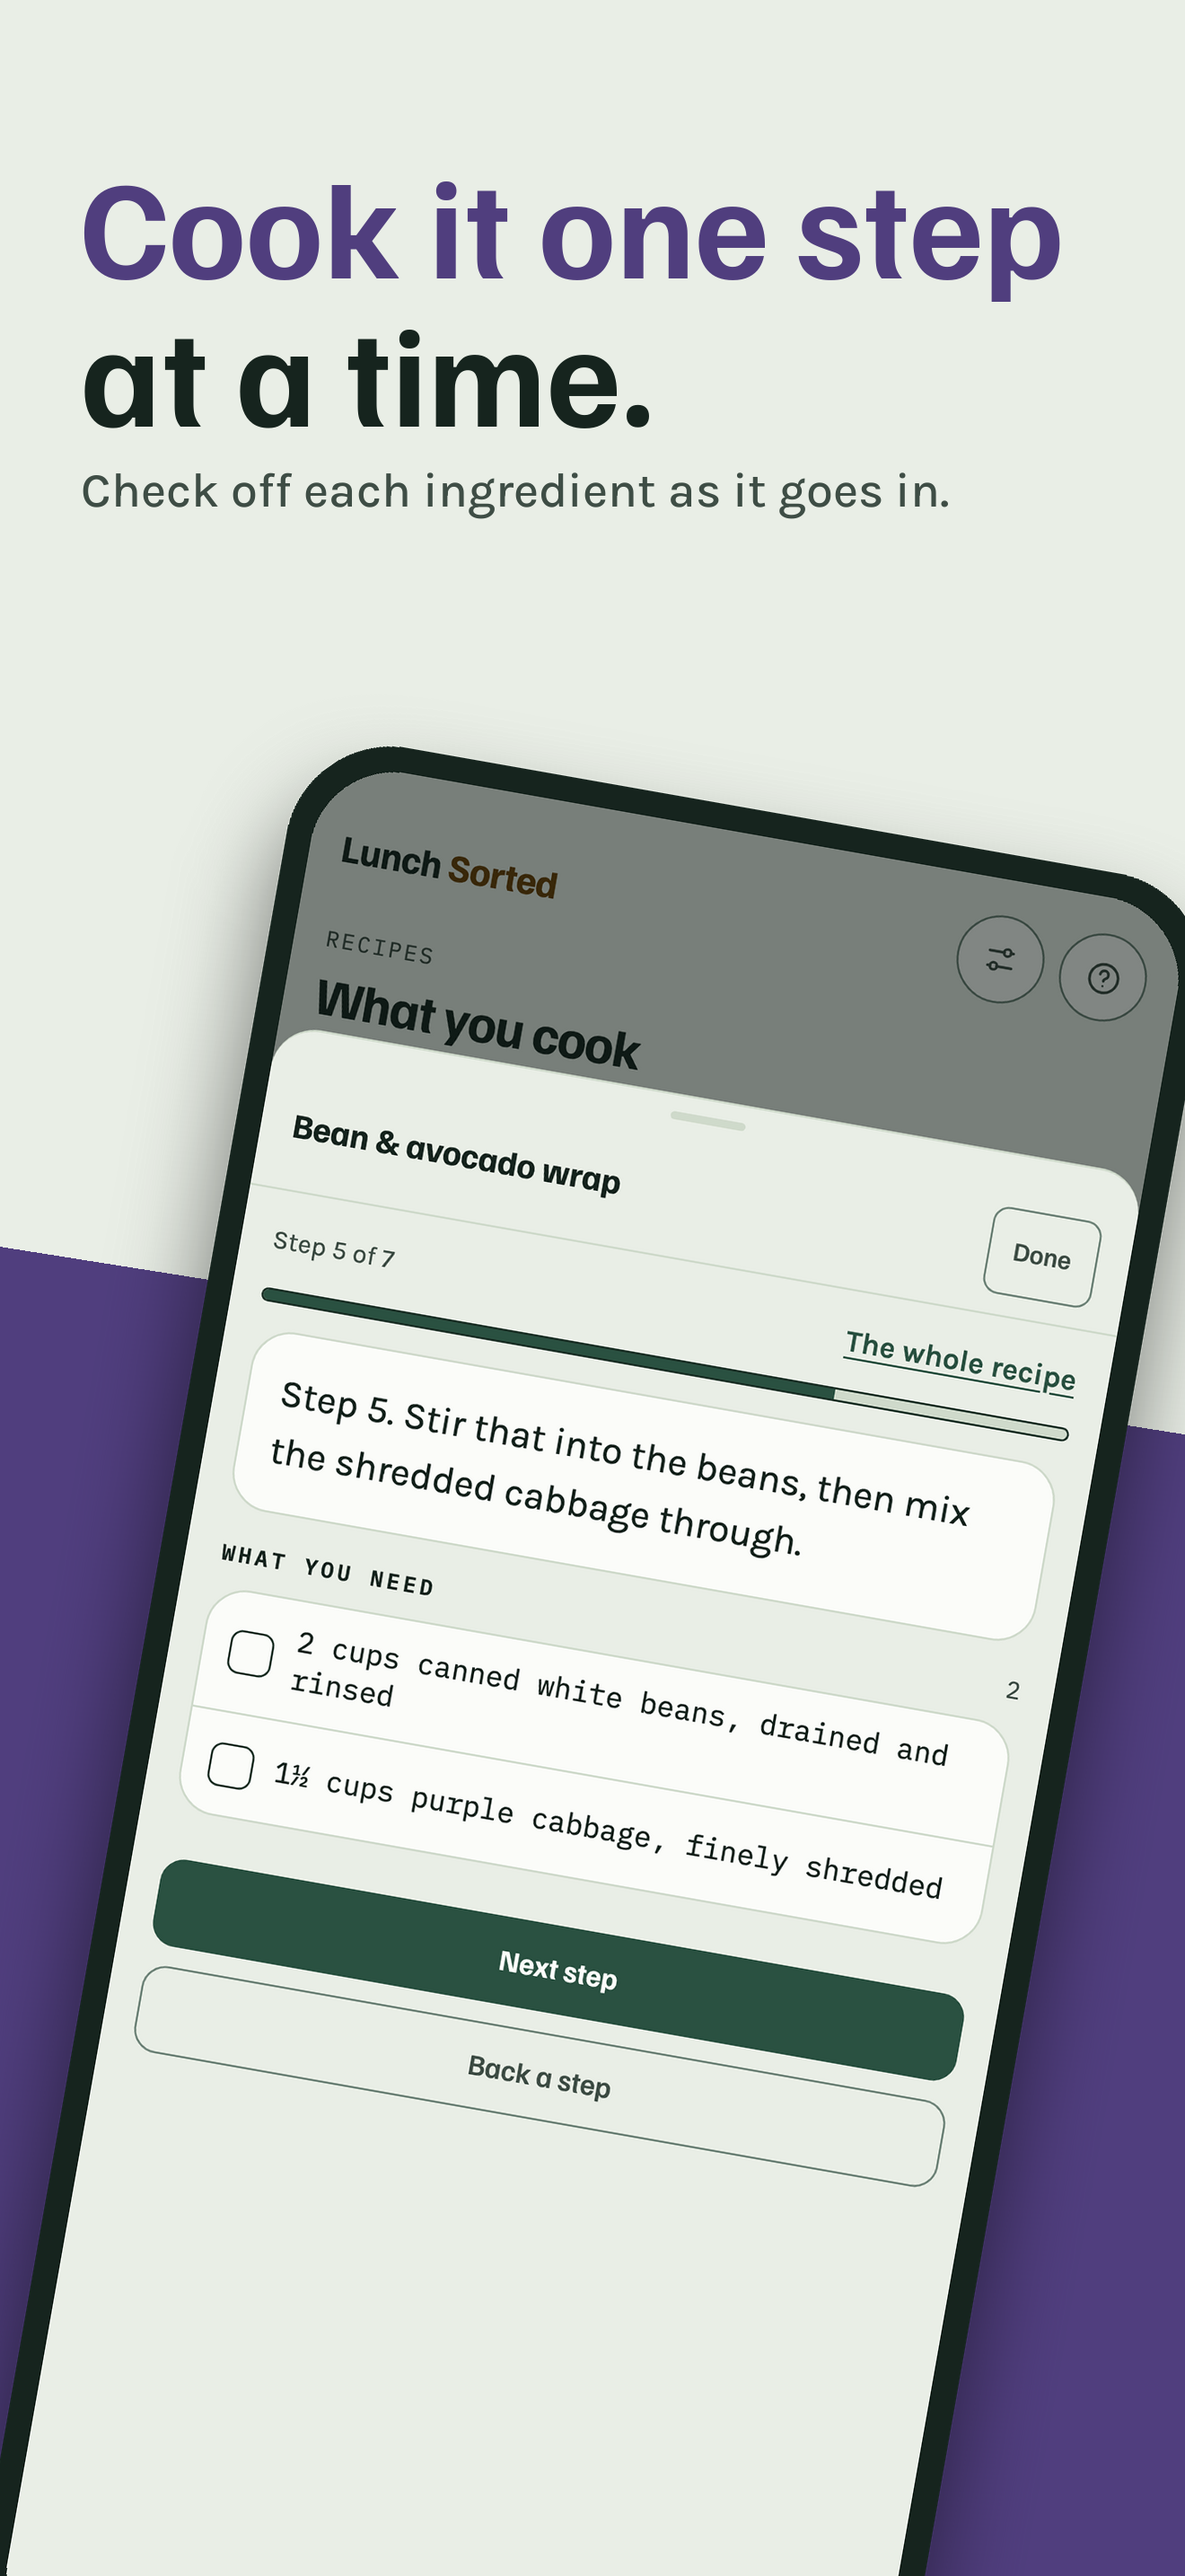
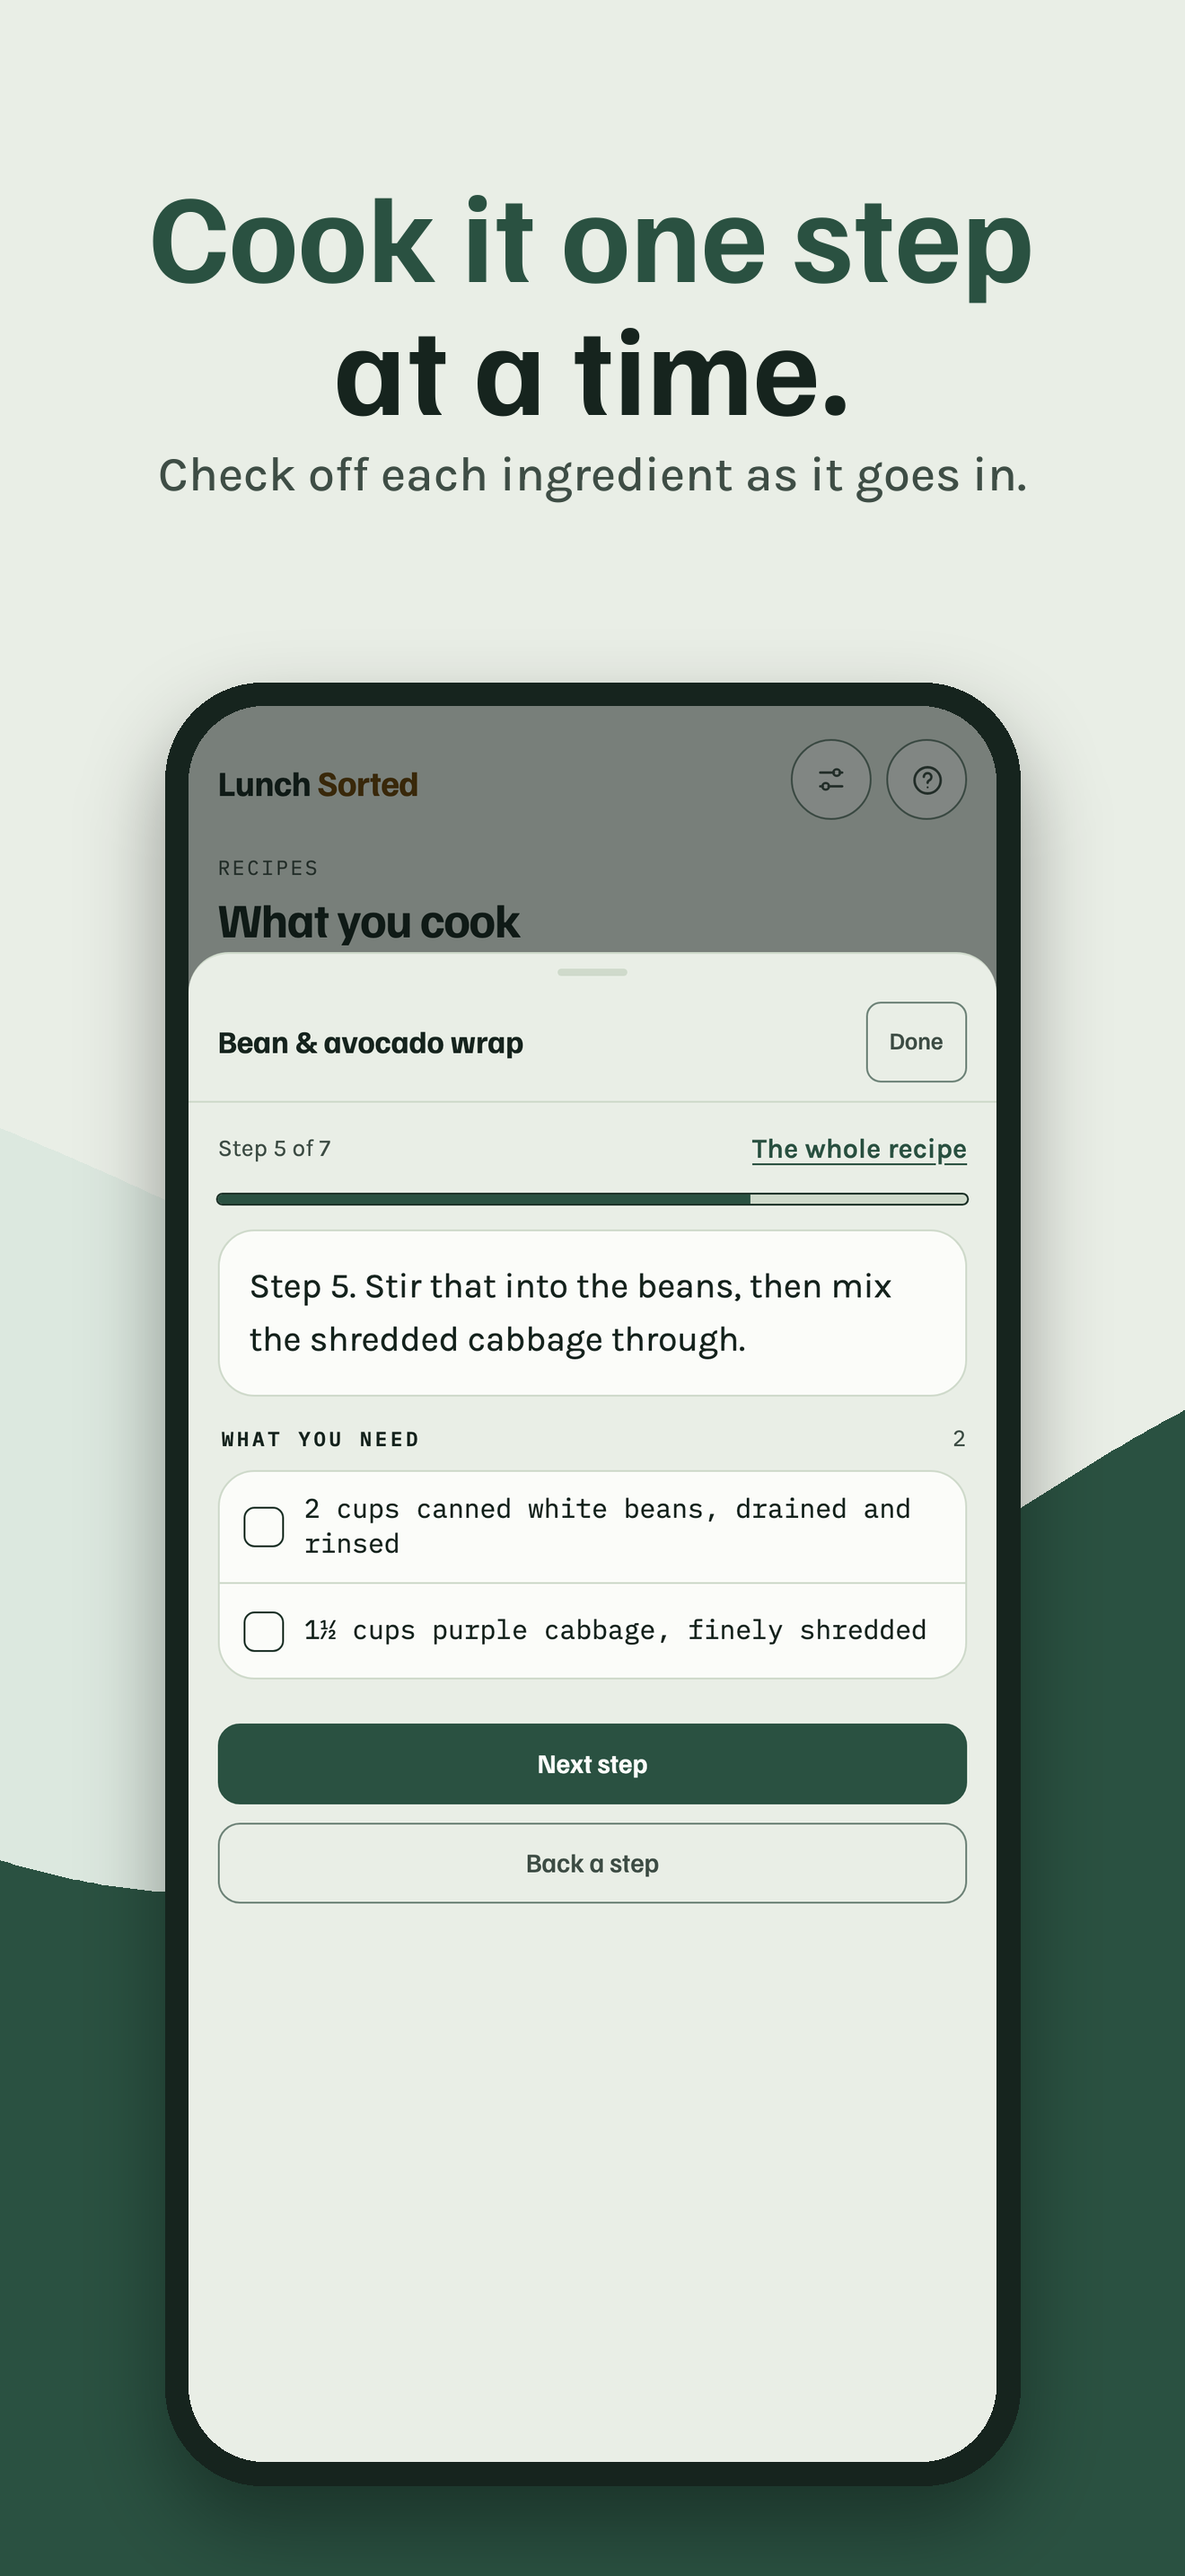
Store: the screenshots calm again, one organic wave running behind the whole set
Upright phones, centered two-color headline, the ground color page. Behind the
phones two waves, the soft accent and the green, drawn once across a canvas
eight frames wide and cut per frame, so every frame carries a different slice
of the same shape. The tilted collage is gone.

diff --git a/scripts/store-compose.py b/scripts/store-compose.py
@@ -1,27 +1,24 @@
 """Composes the App Store screenshots at 1320x2868 (the 6.9-inch slot; App Store Connect
-scales it for smaller phones): each raw capture from store-shots.mjs in a phone with a heavy
-bezel, at a real angle and large enough that the screen reads, running off the frame, on the
-app's ground color with a slab of one of the icon's four compartment colors behind. The first
-three are one scene three frames wide, cut in three, because search results show them side by
-side: the phones cross the cuts and overlap, the way one picture does. Fonts are the app's own,
-checked in under store/ (Familjen Grotesk and Karla, SIL Open Font License). Run by
-scripts/store-shots.mjs."""
+scales it for smaller phones): each raw capture from store-shots.mjs in an upright phone with a
+heavy bezel, centered under a centered two-line headline, on the app's ground color. Behind the
+phones one organic band in the brand's green runs across the whole set, drawn once on a canvas
+eight frames wide and cut per frame, so every frame carries a different slice of the same shape
+and the set reads as one. Fonts are the app's own, checked in under store/ (Familjen Grotesk
+and Karla, SIL Open Font License). Run by scripts/store-shots.mjs."""
 from PIL import Image, ImageDraw, ImageFont, ImageFilter
-import os
+import os, math
 
 OUT = 'store/screenshots'
 W, H = 1320, 2868
 GROUND = (0xE9, 0xEE, 0xE6)          # the page color, the canvas
 INK = (0x16, 0x24, 0x1E)             # the headline's second line and the bezel
 INK2 = (0x3E, 0x4D, 0x45)            # the line under the headline
-# The icon's four compartment colors (HANDBOOK.md, The brand): main, side, fruit, sweet.
-BACKS = [(0x2A, 0x51, 0x41), (0x6A, 0x40, 0x07), (0x84, 0x27, 0x3E), (0x50, 0x3E, 0x7E)]
-BAND = 3            # the first three run as one scene
+MAIN = (0x2A, 0x51, 0x41)            # the band, and the headline's first line
+SOFT = (0xDC, 0xE8, 0xDF)            # accent, soft: a second, paler wave behind the band
 HEAD_FONT = 'store/FamiljenGrotesk-Bold.ttf'
 SUB = ImageFont.truetype('store/Karla-Medium.ttf', 54)
 
-# (raw capture, output name, headline, one line under it). The headline is two lines at most;
-# its first line takes the frame's color, the second the ink.
+# (raw capture, output name, headline, one line under it). Two lines at most.
 SHOTS = [
     ('week',    '01-week',    'A week of lunches\nin a minute.',    'Five boxes, matched so they go together.'),
     ('pack',    '02-pack',    'Mornings:\none box, one check.',     'Today’s box, and the week coming up.'),
@@ -32,11 +29,12 @@ SHOTS = [
     ('setup',   '07-rules',   'Your school’s rules,\nrespected.',   'Nut free, no microwave, a short lunch. Flagged, never dropped.'),
     ('foods',   '08-foods',   'Foods they’ll\nactually eat.',       'Start from what parents pack.'),
 ]
-CROP_TOP = {'kidpick': 320}   # raw pixels off the top: the pick starts at its question, the phone runs off the bottom anyway
+CROP_TOP = {}                 # (raw: pixels off the top); none, so every phone is the same height
 
-BEZEL = 28
-MARGIN = 90
-PAD = 200                     # room around a phone for its shadow's blur
+SCREEN_W = 900
+BEZEL = 26
+PAD = 160                     # room around the phone for its shadow's blur
+PHONE_TOP = 760
 
 def wrap(draw, text, font, width):
     lines = []
@@ -50,84 +48,60 @@ def wrap(draw, text, font, width):
     return lines
 
 def headline(draw, text, width):
-    """The biggest size at which the headline is two lines or fewer."""
-    for size in range(156, 100, -4):
+    for size in range(140, 100, -4):
         font = ImageFont.truetype(HEAD_FONT, size)
         lines = wrap(draw, text, font, width)
         if len(lines) <= 2: return font, lines, size
     return font, lines, size
 
-def caption(canvas, x, head, sub, color):
+def caption(canvas, x0, head, sub):
+    """Centered in the frame that starts at x0."""
     d = ImageDraw.Draw(canvas)
-    font, lines, size = headline(d, head, W - 2 * MARGIN)
-    y = 150
+    font, lines, size = headline(d, head, W - 160)
+    y = 170
     for n, line in enumerate(lines):
-        d.text((x + MARGIN, y), line, font=font, fill=color if n == 0 else INK); y += int(size * 1.06)
-    y += 34
-    for line in wrap(d, sub, SUB, W - 2 * MARGIN):
-        d.text((x + MARGIN, y), line, font=SUB, fill=INK2); y += 68
+        d.text((x0 + (W - d.textlength(line, font=font)) // 2, y), line, font=font, fill=MAIN if n == 0 else INK); y += int(size * 1.06)
+    y += 30
+    for line in wrap(d, sub, SUB, W - 160):
+        d.text((x0 + (W - d.textlength(line, font=SUB)) // 2, y), line, font=SUB, fill=INK2); y += 68
 
 def rounded(im, r):
     mask = Image.new('L', im.size, 0)
     ImageDraw.Draw(mask).rounded_rectangle([0, 0, im.width - 1, im.height - 1], r, fill=255)
     out = Image.new('RGBA', im.size, (0, 0, 0, 0)); out.paste(im, (0, 0), mask); return out
 
-def phone(raw, screen_w, angle):
-    """The capture in a bezel, with its shadow, turned by angle (counterclockwise), one RGBA layer."""
+def phone(raw):
     shot = Image.open(os.path.join(OUT, 'raw-' + raw + '.png')).convert('RGB')
     if raw in CROP_TOP: shot = shot.crop((0, CROP_TOP[raw], shot.width, shot.height))
-    sw = screen_w; sh = int(shot.height * sw / shot.width)
-    screen = rounded(shot.resize((sw, sh), Image.LANCZOS), int(sw * 0.095))
+    sw = SCREEN_W; sh = int(shot.height * sw / shot.width)
+    screen = rounded(shot.resize((sw, sh), Image.LANCZOS), 84)
     fw, fh = sw + 2 * BEZEL, sh + 2 * BEZEL
     layer = Image.new('RGBA', (fw + 2 * PAD, fh + 2 * PAD), (0, 0, 0, 0))
     shadow = Image.new('RGBA', layer.size, (0, 0, 0, 0))
-    ImageDraw.Draw(shadow).rounded_rectangle([PAD, PAD + 60, PAD + fw, PAD + fh + 60], int(sw * 0.12), fill=(0, 0, 0, 130))
-    layer.alpha_composite(shadow.filter(ImageFilter.GaussianBlur(50)))
-    ImageDraw.Draw(layer).rounded_rectangle([PAD, PAD, PAD + fw, PAD + fh], int(sw * 0.12), fill=INK + (255,))
+    ImageDraw.Draw(shadow).rounded_rectangle([PAD, PAD + 44, PAD + fw, PAD + fh + 44], 108, fill=(0, 0, 0, 95))
+    layer.alpha_composite(shadow.filter(ImageFilter.GaussianBlur(44)))
+    ImageDraw.Draw(layer).rounded_rectangle([PAD, PAD, PAD + fw, PAD + fh], 108, fill=INK + (255,))
     layer.alpha_composite(screen, (PAD + BEZEL, PAD + BEZEL))
-    return layer.rotate(angle, resample=Image.BICUBIC, expand=True)
+    return layer
 
-def place(canvas, layer, cx, top):
-    """The phone's bounding box centered on cx, its top edge (before the shadow's room) at top."""
-    canvas.paste(layer, (cx - layer.width // 2, top - PAD), layer)
-
-def slab(canvas, color, angle, cy, width, height):
-    """A compartment-colored slab, tilted, running off the sides and the bottom."""
-    layer = Image.new('RGBA', (width, height), (0, 0, 0, 0))
-    ImageDraw.Draw(layer).rounded_rectangle([0, 0, width - 1, height - 1], 160, fill=color + (255,))
-    layer = layer.rotate(angle, resample=Image.BICUBIC, expand=True)
-    canvas.paste(layer, ((canvas.width - layer.width) // 2, cy - layer.height // 2), layer)
+def wave(canvas, color, base, amp, period, phase):
+    """A band whose top edge undulates across the whole strip, filled to the bottom."""
+    pts = [(x, base + amp * math.sin(2 * math.pi * x / period + phase)) for x in range(0, canvas.width + 1, 8)]
+    ImageDraw.Draw(canvas).polygon(pts + [(canvas.width, H + 10), (0, H + 10)], fill=color)
 
 missing = [r for r, *_ in SHOTS if not os.path.exists(os.path.join(OUT, 'raw-' + r + '.png'))]
 if missing: raise SystemExit('missing raw captures: ' + ', '.join(missing))
 
-# The first three: one scene. Three big phones at fourteen degrees, each leaning into the next
-# frame and running off the bottom, the later one on top of the earlier; one green slab under all
-# three. Each frame keeps its own headline at the top, where nothing crosses.
-wide = Image.new('RGB', (W * BAND, H), GROUND)
-slab(wide, BACKS[0], 7, int(H * 1.02), int(W * BAND * 1.3), int(H * 0.5))
-for i in range(BAND): caption(wide, i * W, SHOTS[i][2], SHOTS[i][3], BACKS[0])
-scene = [  # (frame, screen width, angle, center x, top y)
-    (0, 1180, -13, int(W * 0.56), 760),
-    (1, 1180,  13, int(W * 1.50), 820),
-    (2, 1180, -13, int(W * 2.46), 760),
-]
-for i, sw, angle, cx, top in scene:
-    place(wide, phone(SHOTS[i][0], sw, angle), cx, top)
-for i in range(BAND):
-    wide.crop((i * W, 0, (i + 1) * W, H)).save(os.path.join(OUT, SHOTS[i][1] + '.png'), optimize=True)
-    print('composed', SHOTS[i][1])
-if os.environ.get('WIDE_PREVIEW'):
-    wide.resize((W * BAND // 3, H // 3)).save(os.environ['WIDE_PREVIEW'])
-
-# The rest: one frame each, the same angle and size, the slab's color and lean alternating.
-for i in range(BAND, len(SHOTS)):
-    raw, name, head, sub = SHOTS[i]
-    sign = 1 if i % 2 == 0 else -1
-    color = BACKS[(i - BAND + 1) % len(BACKS)]
-    canvas = Image.new('RGB', (W, H), GROUND)
-    slab(canvas, color, sign * 9, int(H * 0.9), int(W * 1.8), int(H * 0.75))
-    caption(canvas, 0, head, sub, color)
-    place(canvas, phone(raw, 980, sign * 10), W // 2, 780)   # the bezel runs off the sides, the screen does not
-    canvas.save(os.path.join(OUT, name + '.png'), optimize=True)
+N = len(SHOTS)
+strip = Image.new('RGB', (W * N, H), GROUND)
+wave(strip, SOFT, H * 0.50, 300, W * 2.9, 1.1)      # the paler wave, higher
+wave(strip, MAIN, H * 0.62, 330, W * 2.3, 0.0)      # the green band
+for i, (raw, name, head, sub) in enumerate(SHOTS):
+    caption(strip, i * W, head, sub)
+    layer = phone(raw)
+    strip.paste(layer, (i * W + (W - layer.width) // 2, PHONE_TOP - PAD), layer)
+for i, (raw, name, head, sub) in enumerate(SHOTS):
+    strip.crop((i * W, 0, (i + 1) * W, H)).save(os.path.join(OUT, name + '.png'), optimize=True)
     print('composed', name)
+if os.environ.get('STRIP_PREVIEW'):
+    strip.resize((W * N // 6, H // 6)).save(os.environ['STRIP_PREVIEW'])

diff --git a/store/listing.md b/store/listing.md
@@ -144,13 +144,13 @@ the enrollment, so settle it before launch.
 7. `07-rules.png`: Your school's rules, respected. / Nut free, no microwave, a short lunch. Flagged, never dropped.
 8. `08-foods.png`: Foods they'll actually eat. / Start from what parents pack.
 
-Redesigned 2026-10-28 at Liz's ask, against SchoolCafé's set (the September set read as a
-document, not an ad): the page stays the ground color; each screen sits in a phone with a heavy
-bezel at ten to thirteen degrees, large enough that the screen reads, running off the bottom,
-over a slab of one of the icon's four compartment colors behind the lower half; the headline's
-first line takes the frame's color. The first three are one scene three frames wide, cut in
-three, because search results show them side by side: the phones cross the cuts and overlap,
-the later one on top, under one green slab. Headlines are sized to read at a third of this width.
+Redesigned 2026-10-28 at Liz's ask (the September set read as a document, not an ad; a tilted
+collage after SchoolCafé's set was tried and rejected): calm. The page is the ground color, the
+headline centered with its first line in the green, one upright phone with a heavy bezel
+centered under it. Behind the phones two organic waves, the soft accent and the green, run
+across the whole set: drawn once on a canvas eight frames wide and cut per frame, so each frame
+carries a different slice of the same shape and the set reads as one (after Lunchbox Recipes'
+listing, in our shapes). Headlines are sized to read at a third of this width.
 
 They live in `screenshots/`, 1320×2868, the 6.9-inch slot, and App Store Connect scales
 them for the smaller phones. Regenerate with `CHROMIUM_PATH=… node scripts/store-shots.mjs`.
